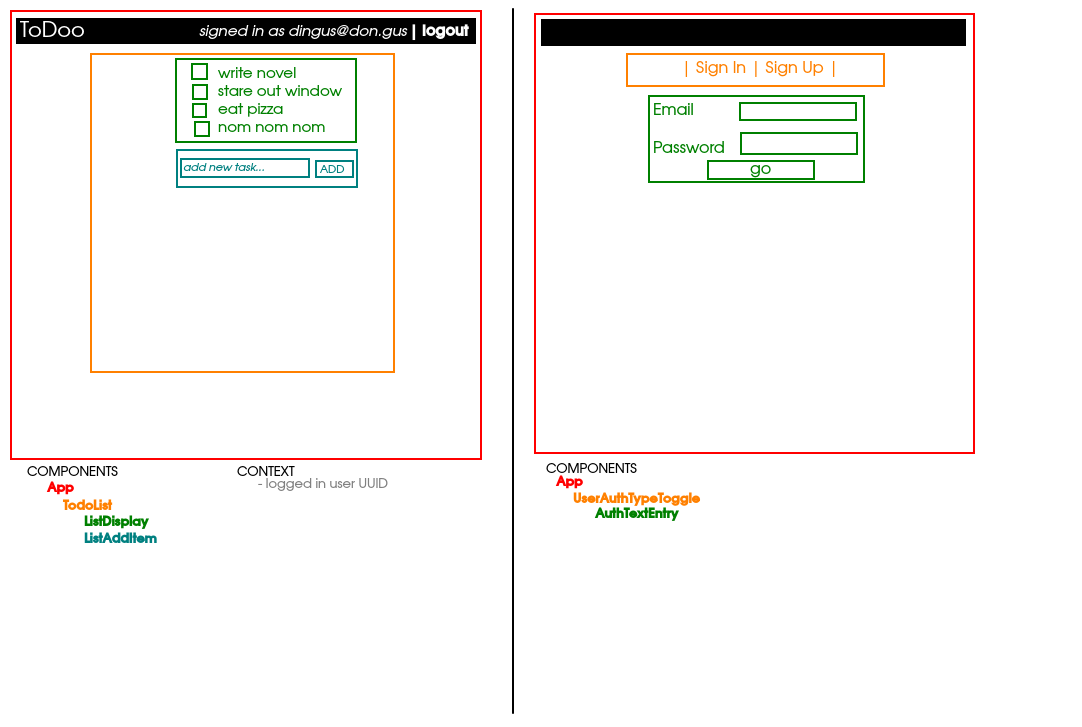
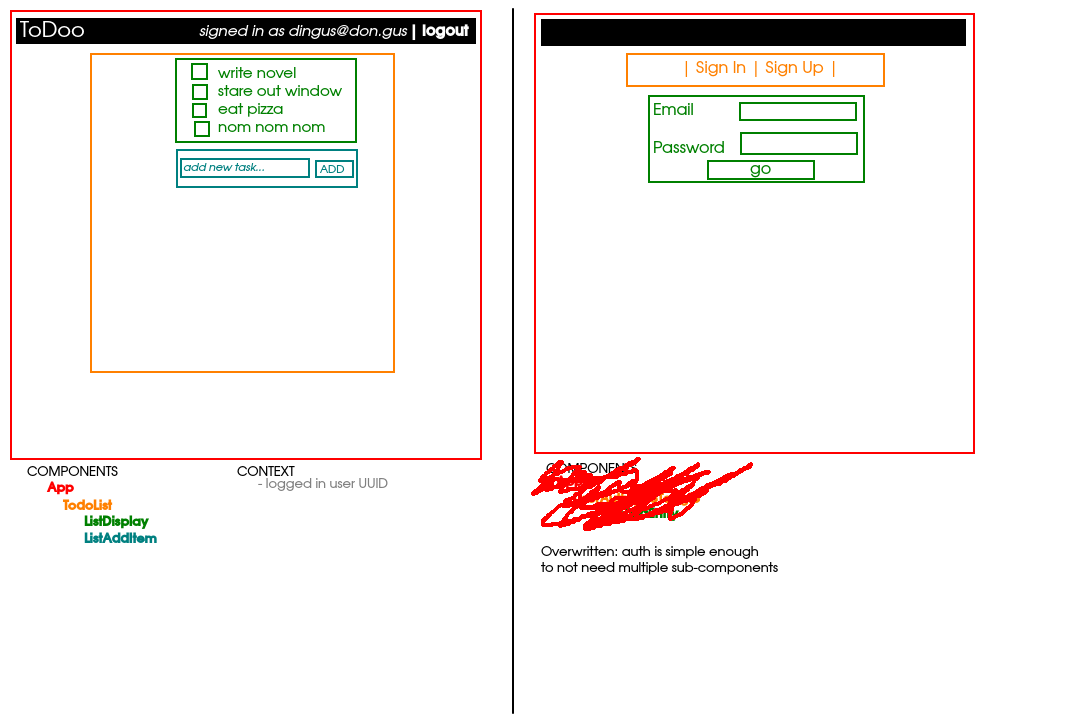
switch and route for app created, readme updated

Changed region(s): [[0.488, 0.6355, 0.7015, 0.7263], [0.488, 0.7565, 0.732, 0.7868]]

diff --git a/src/App.js b/src/App.js
@@ -2,6 +2,8 @@ import './App.css';
 import React from 'react';
 import { BrowserRouter, Switch, Route, Redirect } from 'react-router-dom';
 
+import AuthPage from './components/AuthPage/AuthPage';
+
 function App() {
   return (
     <BrowserRouter>
@@ -9,7 +11,7 @@ function App() {
         <header className="App-header">TooDoo</header>
         <Switch>
           <Route exact path="/auth">
-            <h1>auuuuuuuth</h1>
+            <AuthPage />
           </Route>
 
           <Route exact path="/todo">

diff --git a/src/components/AuthPage/AuthPage.js b/src/components/AuthPage/AuthPage.js
@@ -1,0 +1,15 @@
+export default function AuthPage() {
+  return (
+    <main>
+      <label>
+        email
+        <input type="email" />
+      </label>
+      <label>
+        password
+        <input type="password" />
+      </label>
+      <button>go</button>
+    </main>
+  );
+}

diff --git a/README.md b/README.md
@@ -10,8 +10,6 @@ In-browser todo app using Supabase for authentication and backend
 - `App`
   - router routes: either `Auth` route or `TodoList` route
   - `Auth`
-    - `UserAuthTypeToggle`
-    - `AuthTextEntry`
   - `TodoList`
     - `ListDisplay`
     - `ListAddItem`
